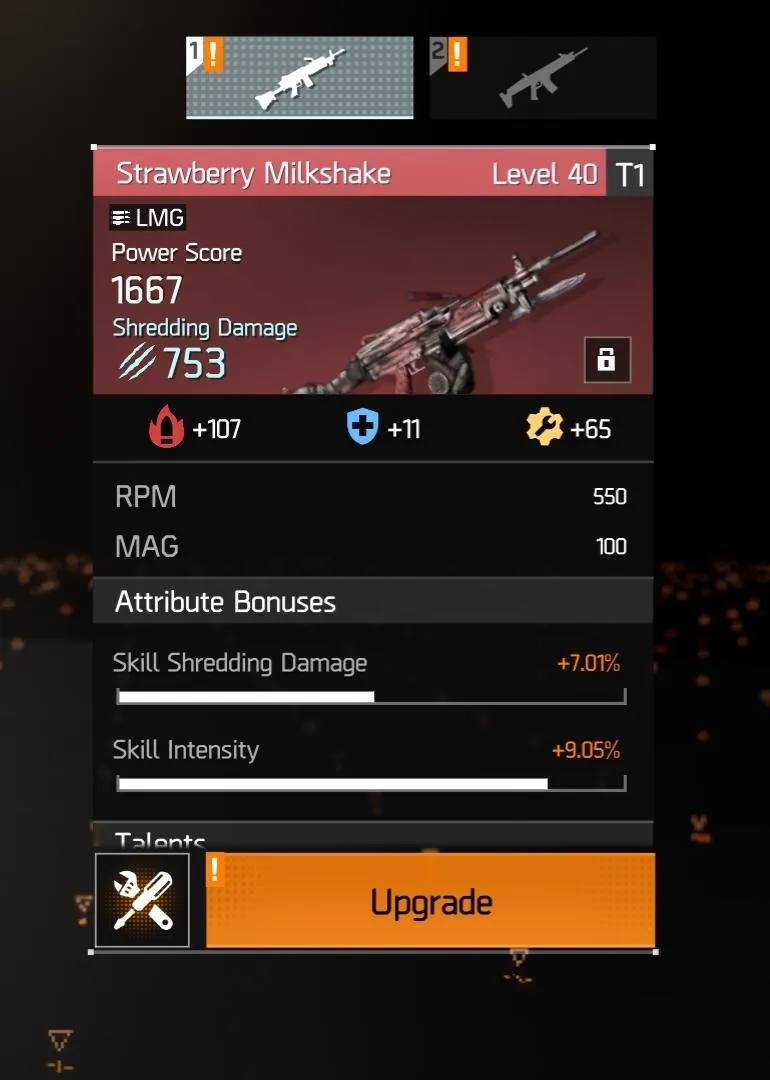
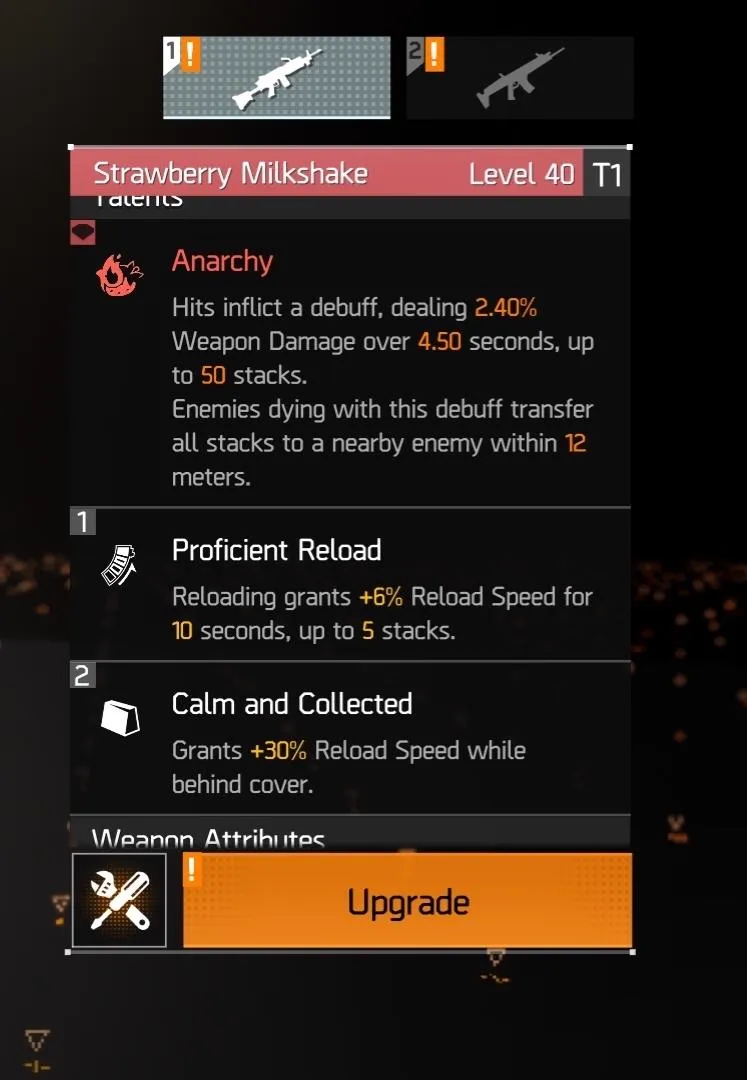
reddit post added

diff --git a/src/content/news/reddit-weekly-highlights-july-2.md b/src/content/news/reddit-weekly-highlights-july-2.md
@@ -5,7 +5,7 @@ author: "RapidF5"
 description: "Best posts from r/thedivisionresurgence between June 17 and July 2, 2026. Phase 3 launch reactions, Kelly's Betrayal discovery, Outpost Annihilation relief, and a healer who won DPS gear."
 featuredImage: "/images/news/division-resurgence-reddit-highlights-july-2-2026-hero.webp"
 imageAlt: "Division Resurgence SHD agent aiming a weapon in the rain with the Reddit logo for the community highlights roundup July 2026"
-tags: ["Community", "Reddit", "Humor", "Weekly"]
+tags: ["Community", "Reddit", "Weekly"]
 shareTitle: "Two weeks of agent chaos"
 shareText: "Phase 3 dropped, a hidden mission appeared, Outpost Annihilation finally works, and a healer won DPS gear from the weekly. Here are ten posts from the sub."
 faqs:
@@ -31,7 +31,7 @@ The developers kicked off the window with a PSA. In their own words:
 
 > "This morning we upgraded our game security protection, to prevent cheaters using speed hacks, mods, and other hacking tools."
 
-The dev team also warned that some legitimate players might get caught in the sweep and told them to reach out to support. Any time an anti-cheat pass drops, the sub turns into a courtroom for three days. Thirty-five upvotes and twenty-eight comments later, at least the average agent got the news he wanted: fewer speed hackers teleporting into his weekly missions right before bedtime.
+The dev team also warned that some legitimate players might get caught in the sweep and told them to reach out to support. Any time an anti-cheat pass drops, the sub turns into a courtroom for three days. Thirty-five upvotes and twenty-eight comments later, at least the average agent got the news he wanted: fewer speed hackers teleporting into his weekly missions right before bedtime. Nothing builds community trust like watching a guy with a 47,000 headshot kill count finally disappear from the leaderboard.
 
 ---
 
@@ -43,7 +43,7 @@ Nothing in this subreddit hits quite like an agent finding out a mission they wr
 
 > "Was in some down time from my daily runs and thought, 'What the heck, I'll just check if they did anything with the mission.' And sure enough, I was able to complete it. FINALLY, devs!"
 
-That is the sound of someone celebrating harder than a dad clearing the honey-do list before kickoff. Not every post needs 500 upvotes to matter. Sometimes 22 upvotes and pure relief is the whole story. For context, the Outpost Annihilation card sat on the [Trello board](/news/division-resurgence-known-issues-trello-board-breakdown/) since May 19. Our [Phase 3 patch notes breakdown](/patch-notes/season-1-phase-3-a-new-fire/) confirms this fix.
+That is the sound of someone celebrating harder than a dad clearing the honey-do list before kickoff. This person went back to a broken mission during downtime the way you open the fridge at 11 PM knowing nothing changed since 10. Not every post needs 500 upvotes to matter. Sometimes 22 upvotes and pure relief is the whole story. For context, the Outpost Annihilation card sat on the [Trello board](/news/division-resurgence-known-issues-trello-board-breakdown/) since May 19. Our [Phase 3 patch notes breakdown](/patch-notes/season-1-phase-3-a-new-fire/) confirms this fix.
 
 ---
 
@@ -51,7 +51,7 @@ That is the sound of someone celebrating harder than a dad clearing the honey-do
 
 **u/NukerBR1337 · June 29 · Original post**
 
-Every so often someone posts about Resurgence without a complaint attached, and the whole sub does a double take.
+Every so often someone posts about Resurgence without a complaint attached, and the whole sub does a double take. Mods probably checked if the account was hacked.
 
 > "This game is great, honestly the best PvE FPS out there right now. There's a real shortage of co-op PvE games on mobile."
 
@@ -67,7 +67,7 @@ Right after the Phase 3 patch dropped, this quiet little discovery showed up. Fu
 
 > "It isn't visible from the mission list but is if you go to matchmaking. Kelly's Betrayal."
 
-That is it. That is the post. A brand new story mission called Kelly's Betrayal, only findable through matchmaking, spotted by a player who happened to be poking around the menus. Sometimes the community finds content before the community manager can even announce it.
+That is it. That is the post. A brand new story mission called Kelly's Betrayal, only findable through matchmaking, spotted by a player who happened to be poking around the menus. We do not know who Kelly is or what she did, but based on the mission name alone, Kelly did something unforgivable. Sometimes the community finds content before the community manager can even announce it.
 
 ---
 
@@ -77,11 +77,11 @@ That is it. That is the post. A brand new story mission called Kelly's Betrayal,
 
 ![Division Resurgence Team Finder matchmaking screen showing Kelly's Betrayal mission listed in the objectives menu](/images/news/reddit-kellys-betrayal-bug-division-resurgence.webp)
 
-One day later, someone else ran Kelly's Betrayal and hit a visual bug, then posted a screenshot with the simplest caption in the game:
+One day later, someone else ran into Kelly's Betrayal and posted a screenshot of it showing up in the Team Finder with the simplest caption in the game:
 
 > "Any one know if this new or old bug?"
 
-Thirty-one upvotes, eighteen comments, and a photo asking a very small, very reasonable question. Whatever is going on with Kelly, the whole squad is invited to the confusion.
+Thirty-one upvotes, eighteen comments, and a photo asking a very small, very reasonable question. Kelly's Betrayal speedrun: discovered on Monday, bugged by Tuesday. Whatever is going on with Kelly, the whole squad is invited to the confusion.
 
 ---
 
@@ -95,7 +95,7 @@ Reward drop RNG remains undefeated. The full complaint:
 
 > "So, I won this from the weekly. Only problem is IM A HEALER. Like, I specifically heal. Even when im soloing im a healer since I can stand there and not recieve any dmg. I use the medical excellence."
 
-Twenty-five upvotes and forty comments say this one landed. The weekly reward system dropping DPS gear on a dedicated support player is basically the reward gods asking, "Have you considered a career change?" If you are in the same boat, our [build collection](/tier-list/) might give you ideas for that accidental DPS loadout.
+Twenty-five upvotes and forty comments say this one landed. The weekly reward system dropping a Firepower OS Protocol on a dedicated support player is basically the loot table sliding a gym membership under the door of a guy who is perfectly happy on the couch. If you are in the same boat, our [build collection](/tier-list/) might give you ideas for that accidental DPS loadout.
 
 ---
 
@@ -103,7 +103,7 @@ Twenty-five upvotes and forty comments say this one landed. The weekly reward sy
 
 **u/Blaistashen_Nein · June 21 · Original post**
 
-![Division Resurgence Strawberry Milkshake LMG stat screen showing Skill Shredding Damage and Skill Intensity attribute bonuses](/images/news/reddit-monstrosity-reload-speed-division-resurgence.webp)
+![Division Resurgence Strawberry Milkshake LMG talent screen showing Proficient Reload granting 6 percent reload speed and Calm and Collected granting 30 percent reload speed behind cover](/images/news/reddit-monstrosity-reload-speed-division-resurgence.webp)
 
 A gallery post with a caption that will make any theorycrafter blink twice:
 
@@ -113,7 +113,7 @@ They kept going:
 
 > "Do I sell it? Dismantle it? Rerolling stats is not an option as you need to be favored by both Ubisoft and God to get the resources and then a chance and you know how it goes."
 
-Reloading grants reload speed. It is the perfect gear roll for someone whose favorite hobby is reloading. Seventeen upvotes, sixteen comments, and one of those items you keep in your stash purely because you want to show it to strangers on the internet.
+Reloading grants reload speed. The weapon equivalent of a participation trophy that rewards you for participating harder. Seventeen upvotes, sixteen comments, and one of those items you keep in your stash purely because you want to show it to strangers on the internet.
 
 ---
 
@@ -123,11 +123,11 @@ Reloading grants reload speed. It is the perfect gear roll for someone whose fav
 
 ![Division Resurgence OS Protocol inventory screen showing Relentless Assault with Skill Critical Damage stats and OS Protocol collection](/images/news/reddit-aegis-pivot-build-division-resurgence.webp)
 
-The Phase 3 damage corrections hit the Aegis Burst and Medic Hypershot interactions, which sent agents running those builds straight to the drawing board. This post is basically the group project.
+The Phase 3 maintenance on June 22 shipped the Aegis Burst and Medic Hypershot damage corrections, and the agents running those builds hit the drawing board before the servers even stabilized. This post is basically the group therapy project.
 
 > "Aegis hyper shot is gone and I'm not trying to be a healer. My defender drone still does good AOE, but it's not the same."
 
-They mentioned running 4 Jackpot / 2 Boom, a maxed Collateral Damage OS, a seemingly useless Relentless Assault OS, and asked about Tactical Pharma and Demolitionist HE as options. Twenty-seven upvotes, thirty comments, a full open thread of pivot ideas from other agents. If you are rebuilding after Phase 3, this thread is a decent starting point. For a deeper dive on what actually changed, the [Phase 3 patch notes](/patch-notes/season-1-phase-3-a-new-fire/) cover the specialization damage corrections in detail.
+They mentioned running 4 Jackpot / 2 Boom, a maxed Collateral Damage OS, a seemingly useless Relentless Assault OS, and asked about Tactical Pharma and Demolitionist HE as options. Twenty-seven upvotes, thirty comments, and the energy of a man whose car just got totaled browsing Craigslist for a replacement before the tow truck even arrives. If you are rebuilding after Phase 3, this thread is a decent starting point. For a deeper dive on what actually changed, the [Phase 3 patch notes](/patch-notes/season-1-phase-3-a-new-fire/) cover the specialization damage corrections in detail.
 
 ---
 
@@ -139,7 +139,7 @@ The highest scoring post in the window at 67 upvotes.
 
 > "That is just ridiculous. I have never seen something like that before. In 20 years of gaming, I recall two times where I had to redownload a whole game for an update (not the same game) and with Resurgence its now already the third time since release."
 
-Twenty years of gaming, three full redownloads in one live-service mobile title, and the poster made peace with it long enough to write a very dry, very tired paragraph about it. If you are on a metered mobile plan, this one hits different. For anyone who just went through the 15 GB Phase 3 download, you are not alone.
+Twenty years of gaming, three full redownloads in one live-service mobile title, and the poster made peace with it long enough to write a very dry, very tired paragraph about it. At this point, some agents have downloaded more gigabytes of Division Resurgence than they have played. If you are on a metered mobile plan, this one hits different.
 
 ---
 
@@ -153,7 +153,7 @@ A polite, well-argued monetization question that pulled 30 upvotes:
 
 > "I noticed that most of the gun skins in the game are all paid, I don't know why. Ubisoft gave free skins in Rainbow Six Mobile, I know it's a different game, but, shouldn't they be giving us some free gun skins? I know the Pure Gold G28 is free because it is a pre-registration reward, but other than that, it's just some apparel stuff. Overall, I see little to no free gun skins in the game."
 
-It is not a rant. It is an actual pitch, backed up by a sister title. Community feedback loops like this are how live-service mobile games evolve, and a little free flair goes a long way when your player base has been grinding for over a month.
+It is not a rant. It is an actual pitch, backed up by a sister title. The man wrote a persuasive essay with citations and comparative market analysis. Somebody give this agent a seat at the next product review. Community feedback loops like this are how live-service mobile games evolve, and a little free flair goes a long way when your player base has been grinding for over a month.
 
 ---
 
@@ -188,18 +188,18 @@ For context on what actually changed in Phase 3, our [A New Fire patch notes bre
 
 ## Sources
 
-- [Anti-cheat PSA](https://www.reddit.com/r/thedivisionresurgence/) by u/TDResurgence, June 17
-- [Outpost Annihilation Fixed](https://www.reddit.com/r/thedivisionresurgence/) by u/mercury_1967, June 27
-- [Good Game](https://www.reddit.com/r/thedivisionresurgence/) by u/NukerBR1337, June 29
-- [Kelly's Betrayal Discovery](https://www.reddit.com/r/thedivisionresurgence/) by u/AnthonyUK, June 24
-- [Kelly's Betrayal Bug](https://www.reddit.com/r/thedivisionresurgence/) by u/TherionIV, June 25
-- [Healer Weekly Reward](https://www.reddit.com/r/thedivisionresurgence/) by u/Recycled_Michael, June 19
-- [6% Reload Speed](https://www.reddit.com/r/thedivisionresurgence/) by u/Blaistashen_Nein, June 21
-- [Aegis Pivot Class](https://www.reddit.com/r/thedivisionresurgence/) by u/Kochise120, June 22
-- [Update Download Complaint](https://www.reddit.com/r/thedivisionresurgence/) by u/JohnnyTest91, June 26
-- [Free Skins Question](https://www.reddit.com/r/thedivisionresurgence/) by u/No_Transition_2879, June 25
-- [Silent Stash Nerf](https://www.reddit.com/r/thedivisionresurgence/) by u/LT-Ghastly, June 23
-- [Elite Missions Feedback](https://www.reddit.com/r/thedivisionresurgence/) by u/RogueBlue2164, June 28
+- Anti-cheat PSA by u/TDResurgence, June 17 ([r/thedivisionresurgence](https://www.reddit.com/r/thedivisionresurgence/))
+- Outpost Annihilation Fixed by u/mercury_1967, June 27 ([r/thedivisionresurgence](https://www.reddit.com/r/thedivisionresurgence/))
+- Good Game by u/NukerBR1337, June 29 ([r/thedivisionresurgence](https://www.reddit.com/r/thedivisionresurgence/))
+- Kelly's Betrayal Discovery by u/AnthonyUK, June 24 ([r/thedivisionresurgence](https://www.reddit.com/r/thedivisionresurgence/))
+- Kelly's Betrayal Bug by u/TherionIV, June 25 ([r/thedivisionresurgence](https://www.reddit.com/r/thedivisionresurgence/))
+- [Healer Weekly Reward by u/Recycled_Michael, June 19](https://www.reddit.com/r/thedivisionresurgence/comments/1uak38i/)
+- [What Do I Do With This Monstrosity by u/Blaistashen_Nein, June 21](https://www.reddit.com/gallery/1uc3gzl)
+- [Aegis Pivot Class by u/Kochise120, June 22](https://www.reddit.com/gallery/1uctqky)
+- Update Download Complaint by u/JohnnyTest91, June 26 ([r/thedivisionresurgence](https://www.reddit.com/r/thedivisionresurgence/))
+- Free Skins Question by u/No_Transition_2879, June 25 ([r/thedivisionresurgence](https://www.reddit.com/r/thedivisionresurgence/))
+- Silent Stash Nerf by u/LT-Ghastly, June 23 ([r/thedivisionresurgence](https://www.reddit.com/r/thedivisionresurgence/))
+- Elite Missions Feedback by u/RogueBlue2164, June 28 ([r/thedivisionresurgence](https://www.reddit.com/r/thedivisionresurgence/))
 
 ---
 